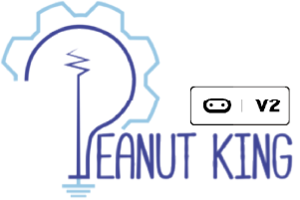
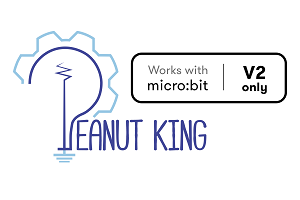
update assets and README

Changed region(s): [[0.0, 0.0, 0.99, 0.99]]

diff --git a/README.md b/README.md
@@ -6,6 +6,8 @@ Peanut King micro:bit extension for bluetooth control. Dynamically configure a c
 
 ### Works with micro:bit V2 ONLY
 
+Using these blocks requires the micro:bit V2 hardware. If you use any blocks that attempt access flash memory on a micro:bit v1 board, you will see the **927** error code on the screen.
+
 ## Summary
 
 This extension exposes the main features of the Peanut Queen Controller to MakeCode for micro:bit. It handles the underlying Bluetooth UART protocol, state management, and data parsing automatically. It includes APIs for:
@@ -32,7 +34,7 @@ A data visualization and Bluetooth control application that lets users dynamical
 [Peanut Queen Controller](https://play.google.com/store/apps/details?id=com.peanut.king.solution)
 
 ## Basic Tutorial
-[Peanut Queen Controller User Insturction](https://github.com/peanut-king-solution/pxt-pks-controller/blob/main/Peanut_Queen_Controller_User_Insturction.pdf)
+[Peanut Queen Controller User Insturction](https://peanut-king-solution.github.io/pxt-pks-controller/Peanut_Queen_Controller_User_Instruction.pdf)
 
 
 ## Example: Setup and Configure GUI
